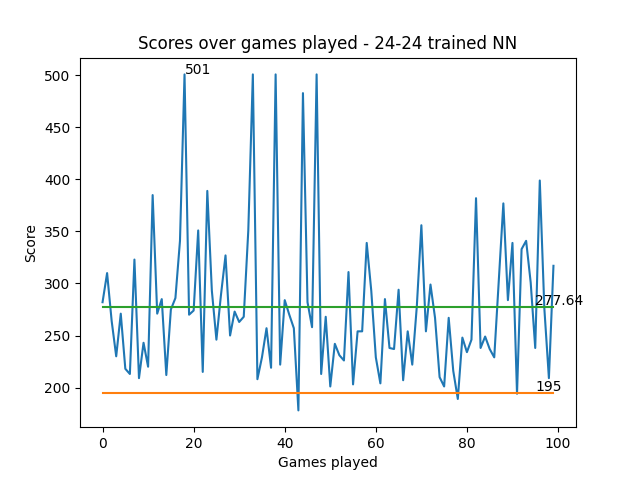
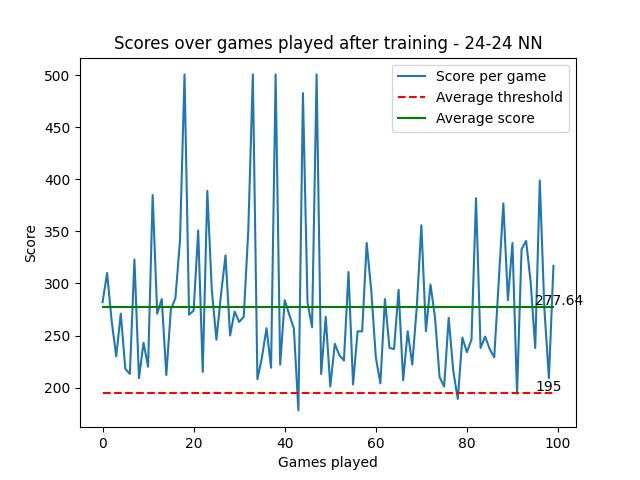
Final commit for dqn stuff

diff --git a/dqn-keras/rl-keras.py b/dqn-keras/rl-keras.py
@@ -29,6 +29,8 @@ class Agent():
         model.add(Dense(self.action_size, activation='linear'))
         model.compile(loss='mse', optimizer=Adam(lr=self.learning_rate))
 
+        model.summary()
+
         if os.path.isfile(self.weight_backup):
             model.load_weights(self.weight_backup)
             self.exploration_rate = self.exploration_min
@@ -63,7 +65,7 @@ class Agent():
 class CartPole:
     def __init__(self):
         self.sample_batch_size = 32
-        self.episodes          = 1
+        self.episodes          = 5000
         self.env               = gym.make('CartPole-v1')
 
         self.state_size        = self.env.observation_space.shape[0]
@@ -74,28 +76,32 @@ class CartPole:
     def run(self):
         try:
             #self.env = gym.wrappers.Monitor(self.env, "examplerun", video_callable=lambda episode_id: True,force=True)
+            #self.env._max_episode_steps = 4000
             scores_list = []
             for index_episode in range(self.episodes):
                 state = self.env.reset()
                 state = np.reshape(state, [1, self.state_size])
 
                 done = False
-                index = 0
+                score = 0
                 while not done:
                     self.env.render() #uncomment for play
 
                     action = self.agent.act(state)
 
                     next_state, reward, done, _ = self.env.step(action)
+
+                    score += reward
+
                     next_state = np.reshape(next_state, [1, self.state_size])
                     #self.agent.remember(state, action, reward, next_state, done) #comment for play
                     state = next_state
-                    index += 1
-                print("Episode {}# Score: {}".format(index_episode, index + 1))
-                scores_list.append(index + 1)
+                    
+                print("Episode {}# Score: {}".format(index_episode, score))
+                scores_list.append(score)
                 #self.agent.replay(self.sample_batch_size) #comment for play
         finally:
-            #self.agent.save_model("rl-temp-f3.h5")
+            #self.agent.save_model("cartpole_newrun.h5")
             print(scores_list)
             self.env.close()
 

diff --git a/dqn-keras/plots.py b/dqn-keras/plots.py
@@ -41,6 +41,14 @@ avg_scores = sum(scores)/100
 avg_thresh = [195]*100
 avg_actual = [avg_scores]*100
 
+avg_100 = [0] * 100
+
+for i in range(0, len(scores) - 100):
+    avg_100_val = sum(scores[i:i+100])/100
+    avg_100.append(avg_100_val)
+
+print(len(avg_100))
+
 max_score = max(scores)
 max_index = scores.index(max_score)
 
@@ -49,17 +57,19 @@ min_index = scores.index(min_score)
 
 #plt.ion()
 fig, ax = plt.subplots()
-Ln, = ax.plot(steps, scores)
-ax.annotate(str(max_score), xy = (max_index, max_score))
+Ln, = ax.plot(steps, scores, label="Score per game")
+#ax.annotate(str(max_score), xy = (max_index, max_score))
 #ax.annotate(str(min_score), xy = (min_index, min_score))
 
-Ln2, = ax.plot(steps, avg_thresh)
+Ln2, = ax.plot(steps, avg_thresh, '--r', label="Average threshold")
 ax.annotate("195", xy=(95, 197))
 
-Ln3, = ax.plot(steps, avg_actual)
+#Ln3, = ax.plot(steps, avg_100, '-g', label="Average over last 100 runs")
+Ln3, = ax.plot(steps, avg_actual, '-g', label="Average score")
 ax.annotate(str(avg_scores), xy=(95, avg_scores + 2))
 
-plt.title("Scores over games played - 24-24 trained NN")
+plt.legend()
+plt.title("Scores over games played after training - 24-24 NN")
 plt.ylabel("Score")
 plt.xlabel("Games played")
 
